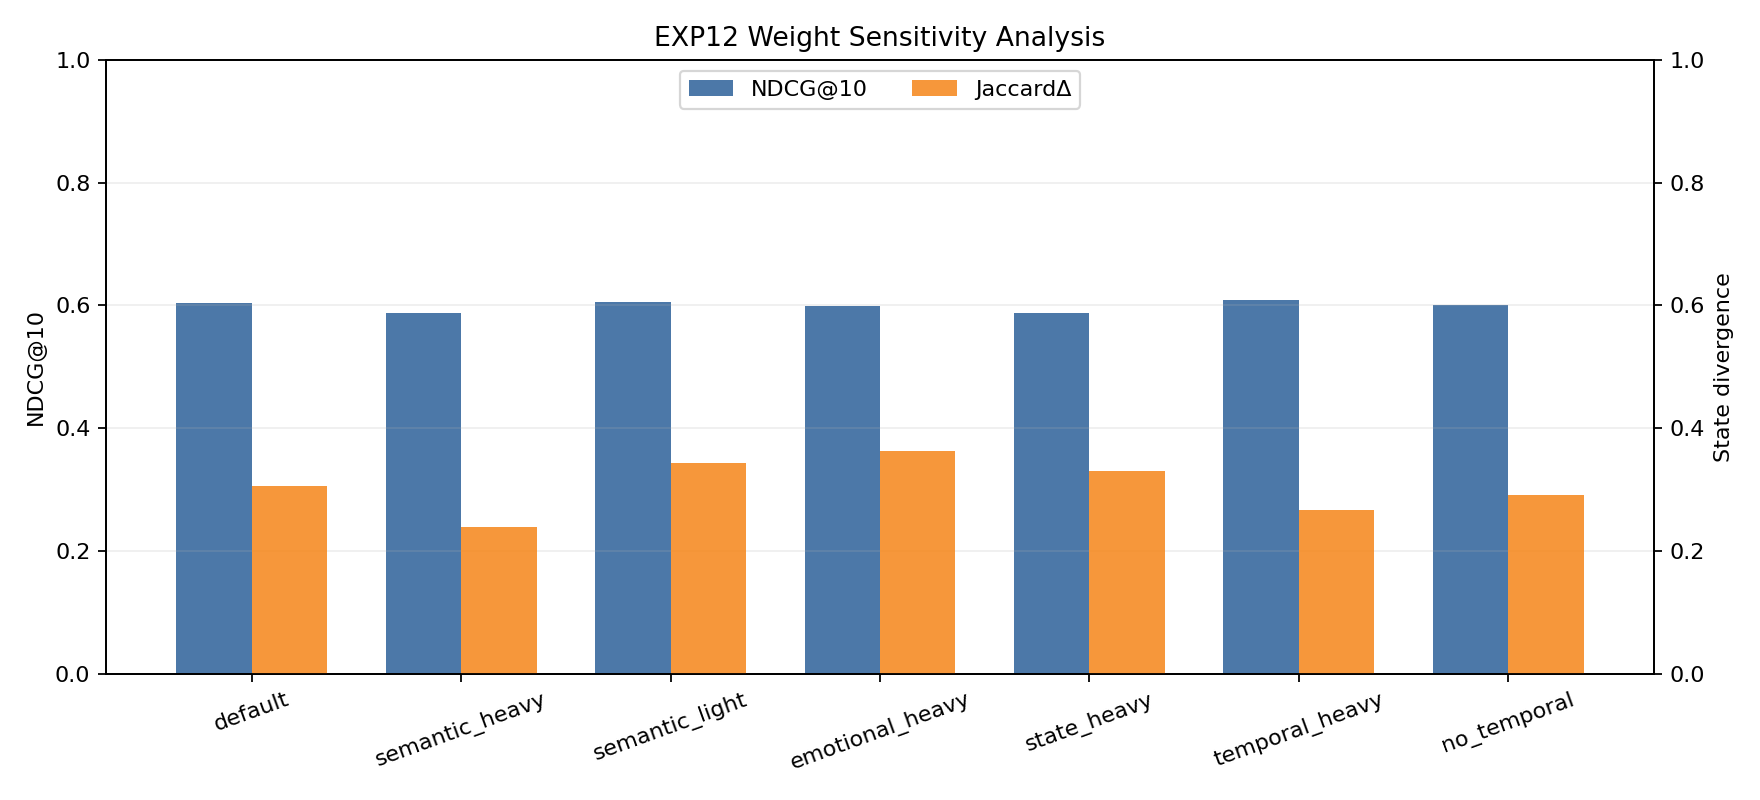
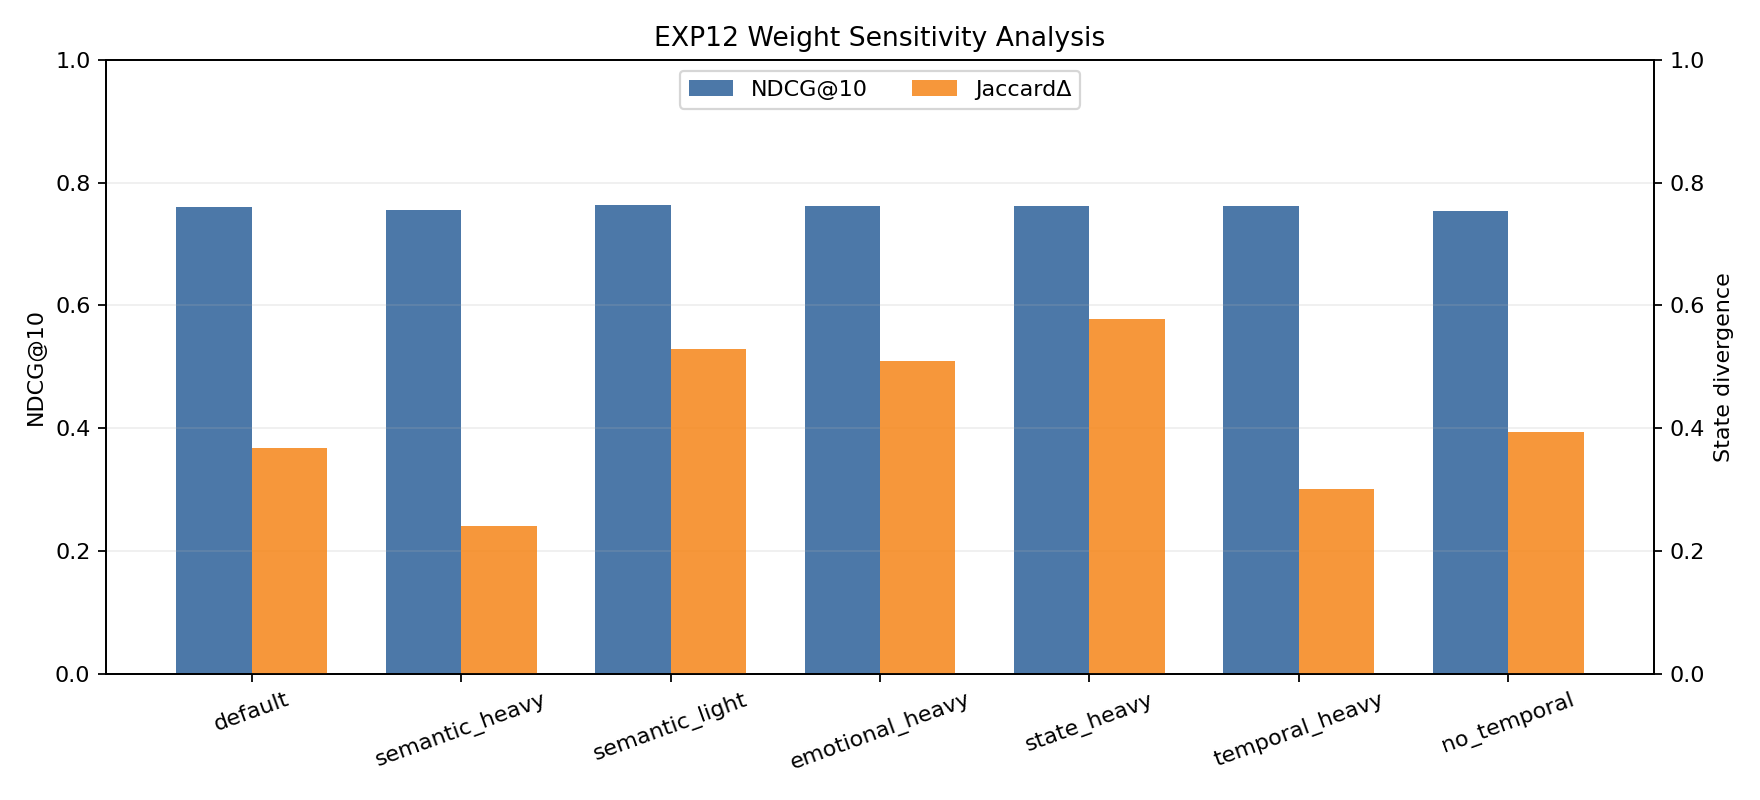
Run Exp12 and sync weight-sensitivity report values

diff --git a/experiments/EXPERIMENT_RESULTS.md b/experiments/EXPERIMENT_RESULTS.md
@@ -301,9 +301,11 @@ To test whether the system is robust or fragile to weight selection.
 ### Results
 Source: [experiments/results/exp12/exp12_weight_sensitivity.txt](results/exp12/exp12_weight_sensitivity.txt)
 
-- temporal_heavy: NDCG=0.609, R@10=0.218, JaccardΔ=0.267
-- semantic_light: NDCG=0.605, R@10=0.218, JaccardΔ=0.343
-- default: NDCG=0.605, R@10=0.220, JaccardΔ=0.306
+- semantic_light: NDCG=0.763, R@10=0.011, JaccardΔ=0.529
+- emotional_heavy: NDCG=0.763, R@10=0.012, JaccardΔ=0.509
+- state_heavy: NDCG=0.762, R@10=0.013, JaccardΔ=0.578
+- temporal_heavy: NDCG=0.762, R@10=0.011, JaccardΔ=0.302
+- default: NDCG=0.760, R@10=0.012, JaccardΔ=0.369
 
 ### What does it say?
 Default weights are stable and close to best; no brittle single optimum.
